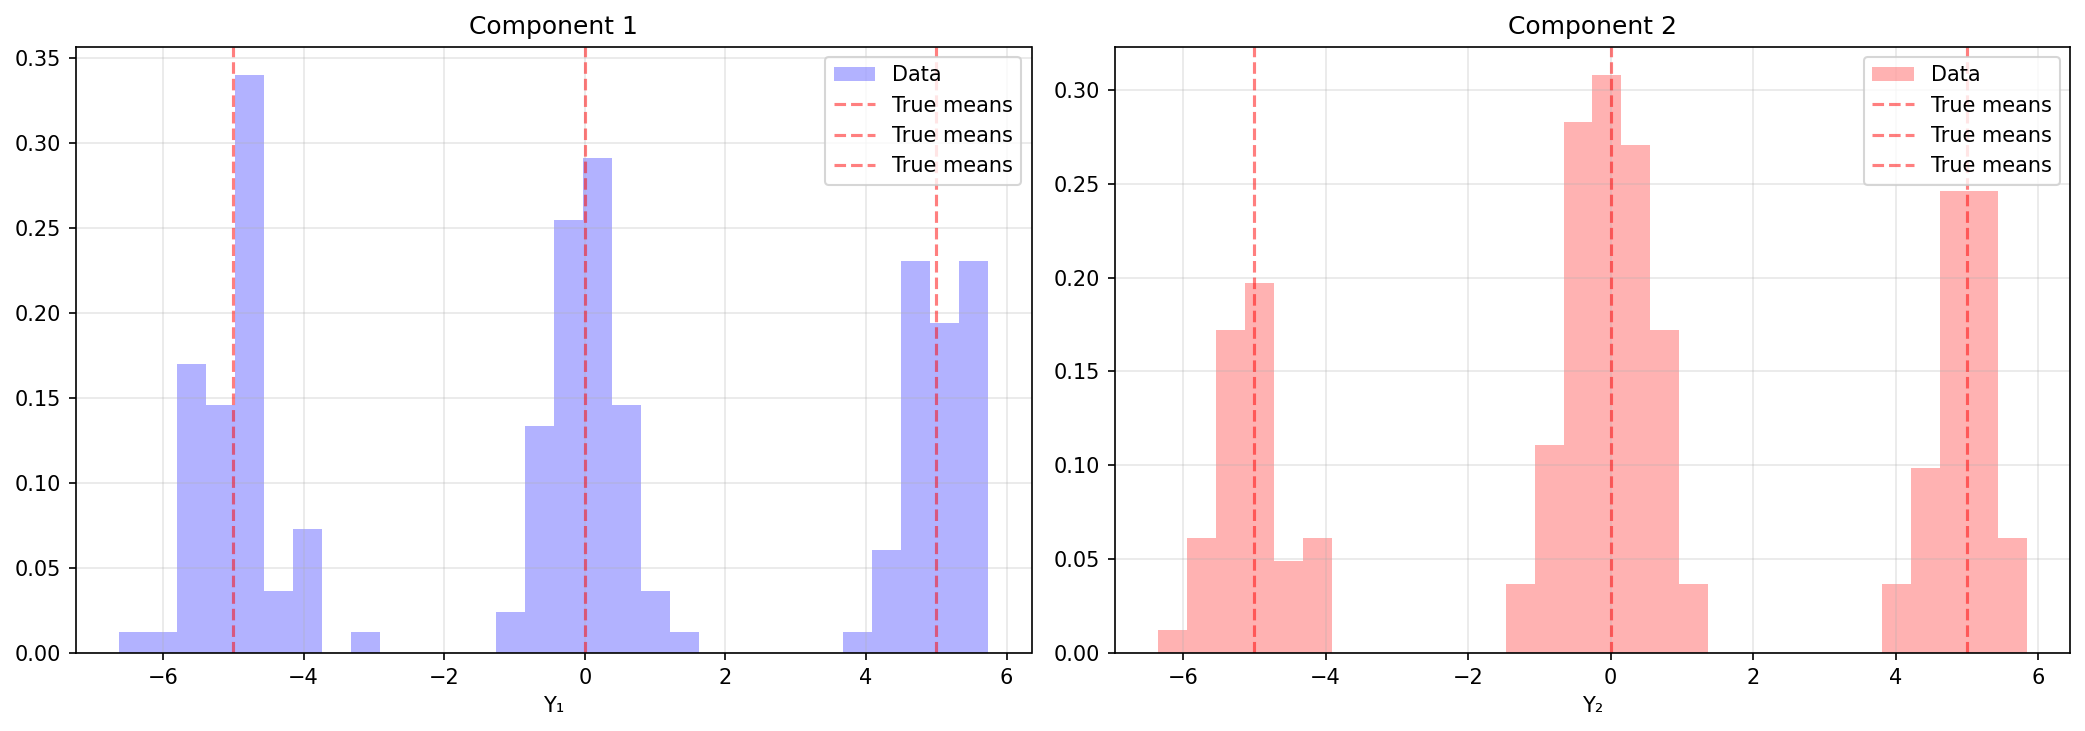
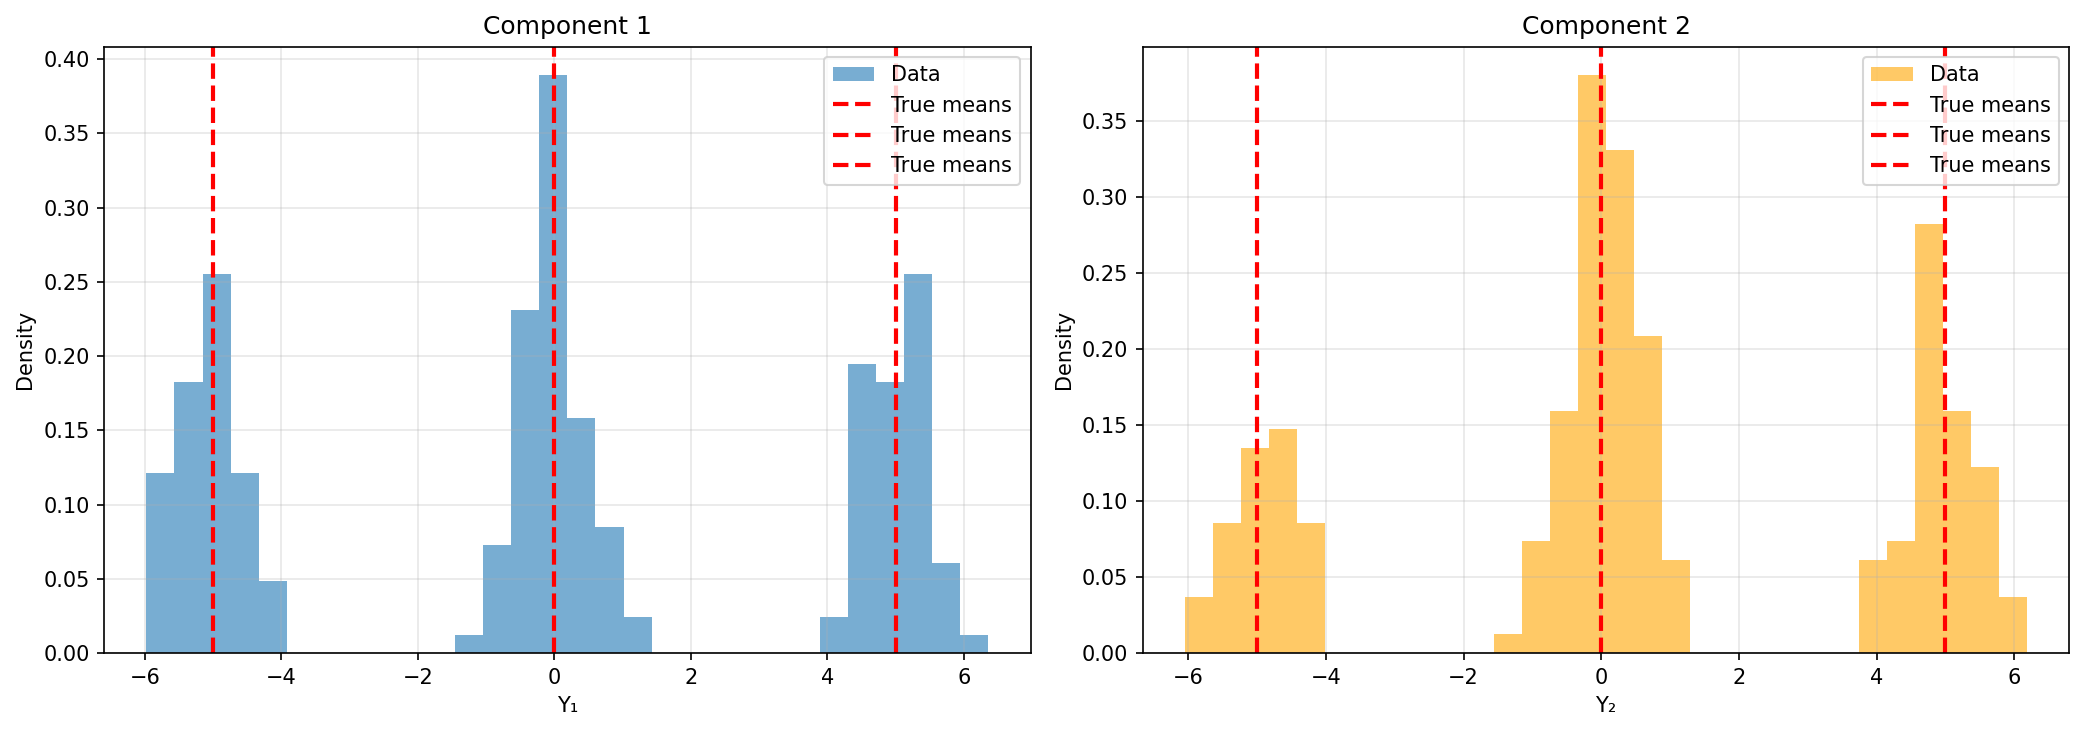
Track total atoms in MCMC: reveal true K mixing
- Add n_atoms tracking to samples dict
- Update plot_trace to show 3x3 grid with total atoms
- Distinguish between occupied clusters and total atoms created
- Reveals that K actually varies (10-24) vs appearing stuck at 3
- Identifies hyperparameter explosion issue (θ₁ → 10^18)

diff --git a/bassetti_h1_mcmc.py b/bassetti_h1_mcmc.py
@@ -74,6 +74,7 @@ class BassettiBetaDPY_H1_MCMC:
             'alpha': [],
             'n_clusters_1': [],
             'n_clusters_2': [],
+            'n_atoms': [],
             'D1': [],
             'D2': []
         }
@@ -431,6 +432,7 @@ class BassettiBetaDPY_H1_MCMC:
                 self.samples['alpha'].append(self.alpha)
                 self.samples['n_clusters_1'].append(len(np.unique(self.D1)))
                 self.samples['n_clusters_2'].append(len(np.unique(self.D2)))
+                self.samples['n_atoms'].append(len(self.psi))  # Total atoms created
                 self.samples['D1'].append(self.D1.copy())
                 self.samples['D2'].append(self.D2.copy())
 
@@ -461,7 +463,7 @@ class BassettiBetaDPY_H1_MCMC:
         """
         Plot MCMC trace plots.
         """
-        fig, axes = plt.subplots(2, 3, figsize=(15, 8))
+        fig, axes = plt.subplots(3, 3, figsize=(15, 11))
 
         # Theta1
         axes[0, 0].plot(self.samples['theta1'])
@@ -481,27 +483,43 @@ class BassettiBetaDPY_H1_MCMC:
         axes[0, 2].set_xlabel('Iteration')
         axes[0, 2].grid(True, alpha=0.3)
 
-        # Number of clusters - Component 1
+        # Number of occupied clusters - Component 1
         axes[1, 0].plot(self.samples['n_clusters_1'])
-        axes[1, 0].set_title('Number of Clusters (Component 1)')
+        axes[1, 0].set_title('Occupied Clusters (Component 1)')
         axes[1, 0].set_xlabel('Iteration')
-        axes[1, 0].set_ylabel('K₁')
+        axes[1, 0].set_ylabel('K₁ occupied')
         axes[1, 0].grid(True, alpha=0.3)
 
-        # Number of clusters - Component 2
+        # Number of occupied clusters - Component 2
         axes[1, 1].plot(self.samples['n_clusters_2'])
-        axes[1, 1].set_title('Number of Clusters (Component 2)')
+        axes[1, 1].set_title('Occupied Clusters (Component 2)')
         axes[1, 1].set_xlabel('Iteration')
-        axes[1, 1].set_ylabel('K₂')
+        axes[1, 1].set_ylabel('K₂ occupied')
         axes[1, 1].grid(True, alpha=0.3)
 
-        # Posterior distribution of K
-        axes[1, 2].hist(self.samples['n_clusters_1'], bins=20, alpha=0.6, label='Component 1')
-        axes[1, 2].hist(self.samples['n_clusters_2'], bins=20, alpha=0.6, label='Component 2')
-        axes[1, 2].set_title('Posterior Distribution of K')
-        axes[1, 2].set_xlabel('Number of Clusters')
-        axes[1, 2].legend()
+        # Total number of atoms created
+        axes[1, 2].plot(self.samples['n_atoms'])
+        axes[1, 2].set_title('Total Atoms Created')
+        axes[1, 2].set_xlabel('Iteration')
+        axes[1, 2].set_ylabel('K total')
         axes[1, 2].grid(True, alpha=0.3)
+
+        # Posterior distribution of occupied K
+        axes[2, 0].hist(self.samples['n_clusters_1'], bins=20, alpha=0.6, label='Component 1')
+        axes[2, 0].hist(self.samples['n_clusters_2'], bins=20, alpha=0.6, label='Component 2')
+        axes[2, 0].set_title('Posterior Distribution (Occupied K)')
+        axes[2, 0].set_xlabel('Number of Clusters')
+        axes[2, 0].legend()
+        axes[2, 0].grid(True, alpha=0.3)
+
+        # Posterior distribution of total atoms
+        axes[2, 1].hist(self.samples['n_atoms'], bins=20, alpha=0.6, color='green')
+        axes[2, 1].set_title('Posterior Distribution (Total Atoms)')
+        axes[2, 1].set_xlabel('Number of Atoms')
+        axes[2, 1].grid(True, alpha=0.3)
+
+        # Hide unused subplot
+        axes[2, 2].axis('off')
 
         plt.tight_layout()
         return fig
